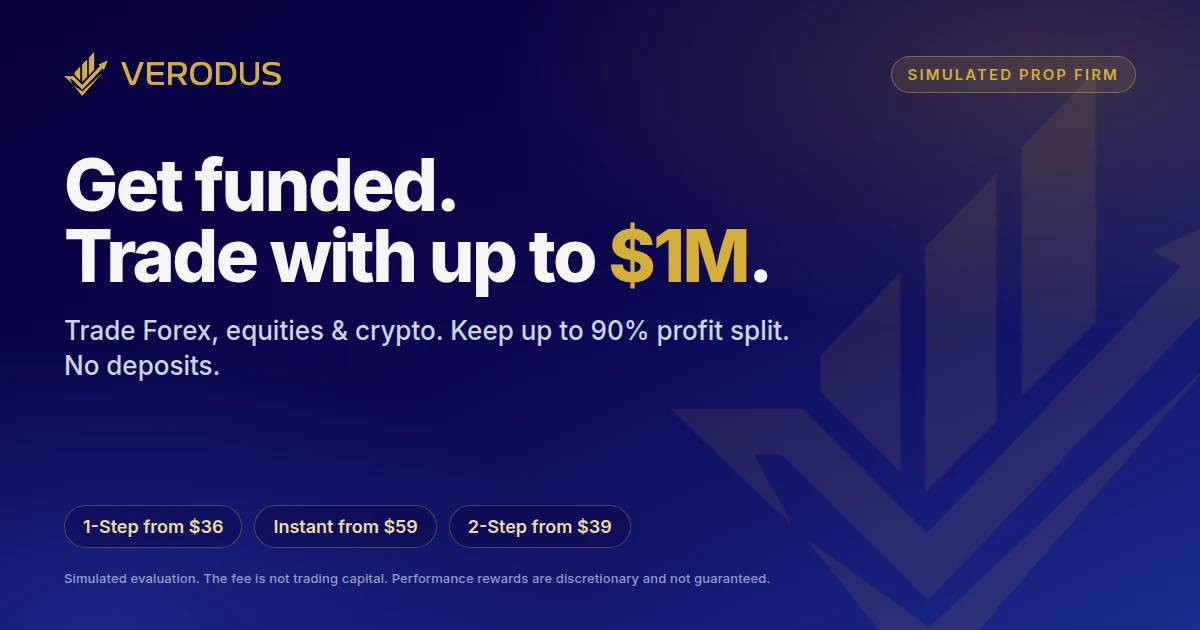
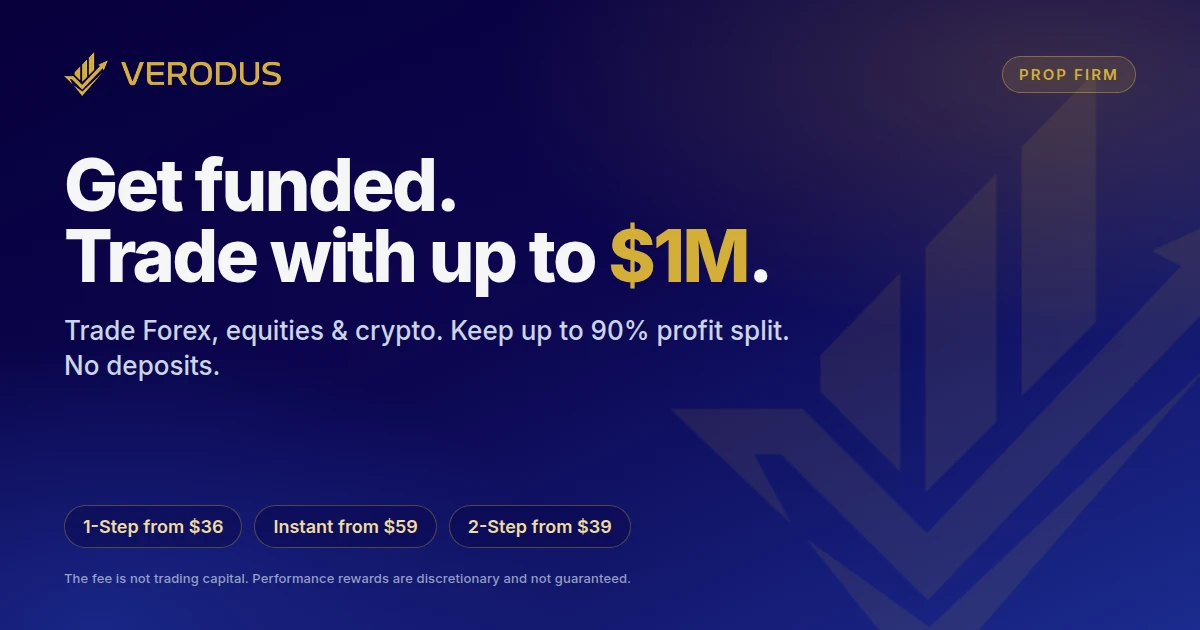
Drop “simulated” from Verodus meta title and description
Title is now Prop Firm. Description is the live sentence with the $36
floor and “at a prop firm.” Rebuild the 1200x630 card to match.

Changed region(s): [[0.0617, 0.9048, 0.6475, 0.9349], [0.74, 0.0905, 0.8633, 0.1508]]

diff --git a/ads/meta/tags/index.html b/ads/meta/tags/index.html
@@ -7,9 +7,9 @@
     <!-- Meta Business domain verification — replace FACEBOOK_DOMAIN_VERIFICATION_CODE -->
     <meta name="facebook-domain-verification" content="FACEBOOK_DOMAIN_VERIFICATION_CODE">
 
-    <title>Verodus | Simulated Prop Firm — Up to $1M Capital, 90% Profit Split</title>
+    <title>Verodus | Prop Firm — Up to $1M Capital, 90% Profit Split</title>
     <!-- VERO35 shopper floors, 16 Aug 2026 rec card: 1-Step $36 · 2-Step $39 · Instant $59 ($5k). -->
-    <meta name="description" content="Pass a 1-Step or 2-Step from $36 at a simulated prop firm. Trade Forex, equities & crypto with up to $1M capital, keep up to 90% profit split. No deposits.">
+    <meta name="description" content="Pass a 1-Step or 2-Step from $36 at a prop firm. Trade Forex, equities & crypto with up to $1M capital, keep up to 90% profit split. No deposits.">
     <meta name="robots" content="index, follow, max-image-preview:large, max-snippet:-1, max-video-preview:-1">
     <link rel="canonical" href="https://www.verodus.com/">
 
@@ -22,21 +22,21 @@
     <meta property="og:locale:alternate" content="fr_FR">
     <meta property="og:locale:alternate" content="pt_BR">
     <meta property="og:url" content="https://www.verodus.com/">
-    <meta property="og:title" content="Verodus | Simulated Prop Firm — Up to $1M Capital, 90% Profit Split">
-    <meta property="og:description" content="Pass a 1-Step or 2-Step from $36 at a simulated prop firm. Trade Forex, equities & crypto with up to $1M capital, keep up to 90% profit split. No deposits.">
+    <meta property="og:title" content="Verodus | Prop Firm — Up to $1M Capital, 90% Profit Split">
+    <meta property="og:description" content="Pass a 1-Step or 2-Step from $36 at a prop firm. Trade Forex, equities & crypto with up to $1M capital, keep up to 90% profit split. No deposits.">
     <meta property="og:image" content="https://www.verodus.com/images/og-default.webp">
     <meta property="og:image:secure_url" content="https://www.verodus.com/images/og-default.webp">
     <meta property="og:image:type" content="image/webp">
     <meta property="og:image:width" content="1200">
     <meta property="og:image:height" content="630">
-    <meta property="og:image:alt" content="Verodus simulated prop firm. Pass a 1-Step or 2-Step from $36. Up to $1M capital, keep up to 90% profit split.">
+    <meta property="og:image:alt" content="Verodus prop firm. Pass a 1-Step or 2-Step from $36. Up to $1M capital, keep up to 90% profit split.">
 
     <meta name="twitter:card" content="summary_large_image">
     <meta name="twitter:site" content="@VerodusOfficial">
-    <meta name="twitter:title" content="Verodus | Simulated Prop Firm — Up to $1M Capital, 90% Profit Split">
-    <meta name="twitter:description" content="Pass a 1-Step or 2-Step from $36 at a simulated prop firm. Trade Forex, equities & crypto with up to $1M capital, keep up to 90% profit split. No deposits.">
+    <meta name="twitter:title" content="Verodus | Prop Firm — Up to $1M Capital, 90% Profit Split">
+    <meta name="twitter:description" content="Pass a 1-Step or 2-Step from $36 at a prop firm. Trade Forex, equities & crypto with up to $1M capital, keep up to 90% profit split. No deposits.">
     <meta name="twitter:image" content="https://www.verodus.com/images/og-default.webp">
-    <meta name="twitter:image:alt" content="Verodus simulated prop firm. Pass a 1-Step or 2-Step from $36. Up to $1M capital, keep up to 90% profit split.">
+    <meta name="twitter:image:alt" content="Verodus prop firm. Pass a 1-Step or 2-Step from $36. Up to $1M capital, keep up to 90% profit split.">
 
     <meta name="theme-color" content="#1b2b8e">
     <script type="application/ld+json">
@@ -48,7 +48,7 @@
           "@id": "https://www.verodus.com/#organization",
           "name": "Verodus",
           "alternateName": "Verodus Prop Firm",
-          "description": "Verodus is a simulated proprietary trading (prop) firm. Traders complete a structured evaluation and can become eligible for discretionary performance rewards.",
+          "description": "Verodus is a proprietary trading (prop) firm. Traders complete a structured evaluation and can become eligible for discretionary performance rewards.",
           "url": "https://www.verodus.com",
           "logo": "https://www.verodus.com/images/logo.webp",
           "sameAs": [
@@ -188,12 +188,12 @@
 </head>
 <body>
     <main>
-        <span class="eyebrow">Simulated prop firm</span>
+        <span class="eyebrow">Prop firm</span>
         <h1>Verodus <em>meta tags</em></h1>
-        <p class="lead">Complete HTML for the Verodus simulated prop firm. Copy the <code>&lt;head&gt;</code> into the live header. Prices are the 16 Aug VERO35 shopper floors: 1-Step <strong>$36</strong>, 2-Step <strong>$39</strong>, Instant <strong>$59</strong>. Replace the two placeholders, then upload the 1200×630 share image.</p>
+        <p class="lead">Complete HTML for the Verodus prop firm. Copy the <code>&lt;head&gt;</code> into the live header. Prices are the 16 Aug VERO35 shopper floors: 1-Step <strong>$36</strong>, 2-Step <strong>$39</strong>, Instant <strong>$59</strong>. Replace the two placeholders, then upload the 1200×630 share image.</p>
 
         <div class="card">
-            <img src="og-default.png" width="1200" height="630" alt="Verodus simulated prop firm. Pass a 1-Step or 2-Step from $36. Up to $1M capital, keep up to 90% profit split.">
+            <img src="og-default.png" width="1200" height="630" alt="Verodus prop firm. Pass a 1-Step or 2-Step from $36. Up to $1M capital, keep up to 90% profit split.">
         </div>
 
         <h2>Replace before publish</h2>
@@ -206,7 +206,7 @@
         <h2>Domain verification tag</h2>
         <pre><code>&lt;meta name="facebook-domain-verification" content="FACEBOOK_DOMAIN_VERIFICATION_CODE"&gt;</code></pre>
 
-        <p class="note">Simulated evaluation. The fee is not trading capital. Performance rewards are discretionary and not guaranteed.</p>
+        <p class="note">The fee is not trading capital. Performance rewards are discretionary and not guaranteed.</p>
     </main>
 </body>
 </html>

diff --git a/ads/meta/tags/build_og.py b/ads/meta/tags/build_og.py
@@ -119,7 +119,7 @@ def html() -> str:
     <img class="watermark" alt="" src="{mark}">
     <div class="top">
       <img class="logo" alt="Verodus" src="{wordmark}">
-      <span class="eyebrow">Simulated prop firm</span>
+      <span class="eyebrow">Prop firm</span>
     </div>
     <h1>Get funded.<br>Trade with up to <em>$1M</em>.</h1>
     <p class="sub">Trade Forex, equities &amp; crypto. Keep up to 90% profit split. No deposits.</p>
@@ -128,7 +128,7 @@ def html() -> str:
       <span class="chip">Instant from $59</span>
       <span class="chip">2-Step from $39</span>
     </div>
-    <p class="disclaimer">Simulated evaluation. The fee is not trading capital. Performance rewards are discretionary and not guaranteed.</p>
+    <p class="disclaimer">The fee is not trading capital. Performance rewards are discretionary and not guaranteed.</p>
   </div>
 </body>
 </html>

diff --git a/ads/meta/tags/README.md b/ads/meta/tags/README.md
@@ -2,8 +2,8 @@
 
 **Use this file:** [`index.html`](index.html)
 
-Title names the **simulated prop firm**. Description keeps the live sentence shape, with the $36 1-Step floor:
+Title names the **prop firm**. Description keeps the live sentence shape, with the $36 1-Step floor:
 
-`Pass a 1-Step or 2-Step from $36 at a simulated prop firm. Trade Forex, equities & crypto with up to $1M capital, keep up to 90% profit split. No deposits.`
+`Pass a 1-Step or 2-Step from $36 at a prop firm. Trade Forex, equities & crypto with up to $1M capital, keep up to 90% profit split. No deposits.`
 
 Replace `FACEBOOK_DOMAIN_VERIFICATION_CODE` and `PIXEL_ID` before publish. Upload `og-default.webp` to `https://www.verodus.com/images/og-default.webp`.
